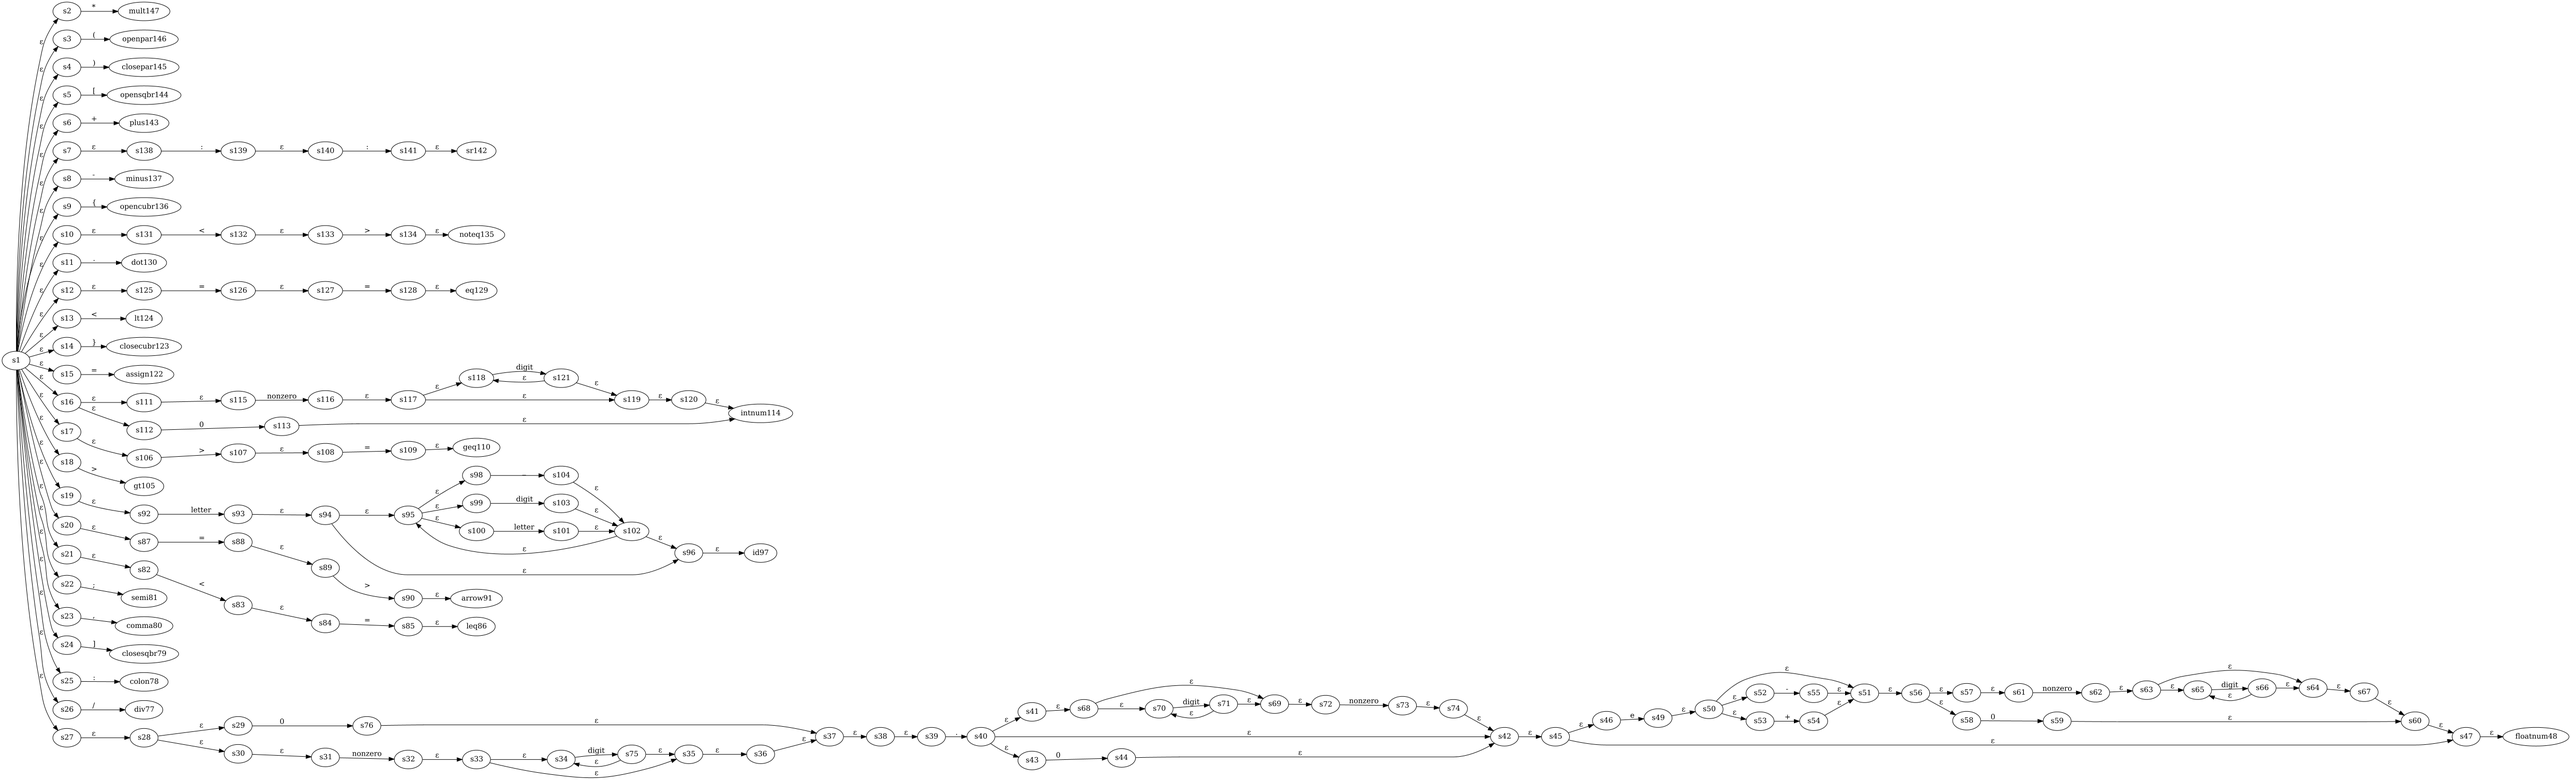
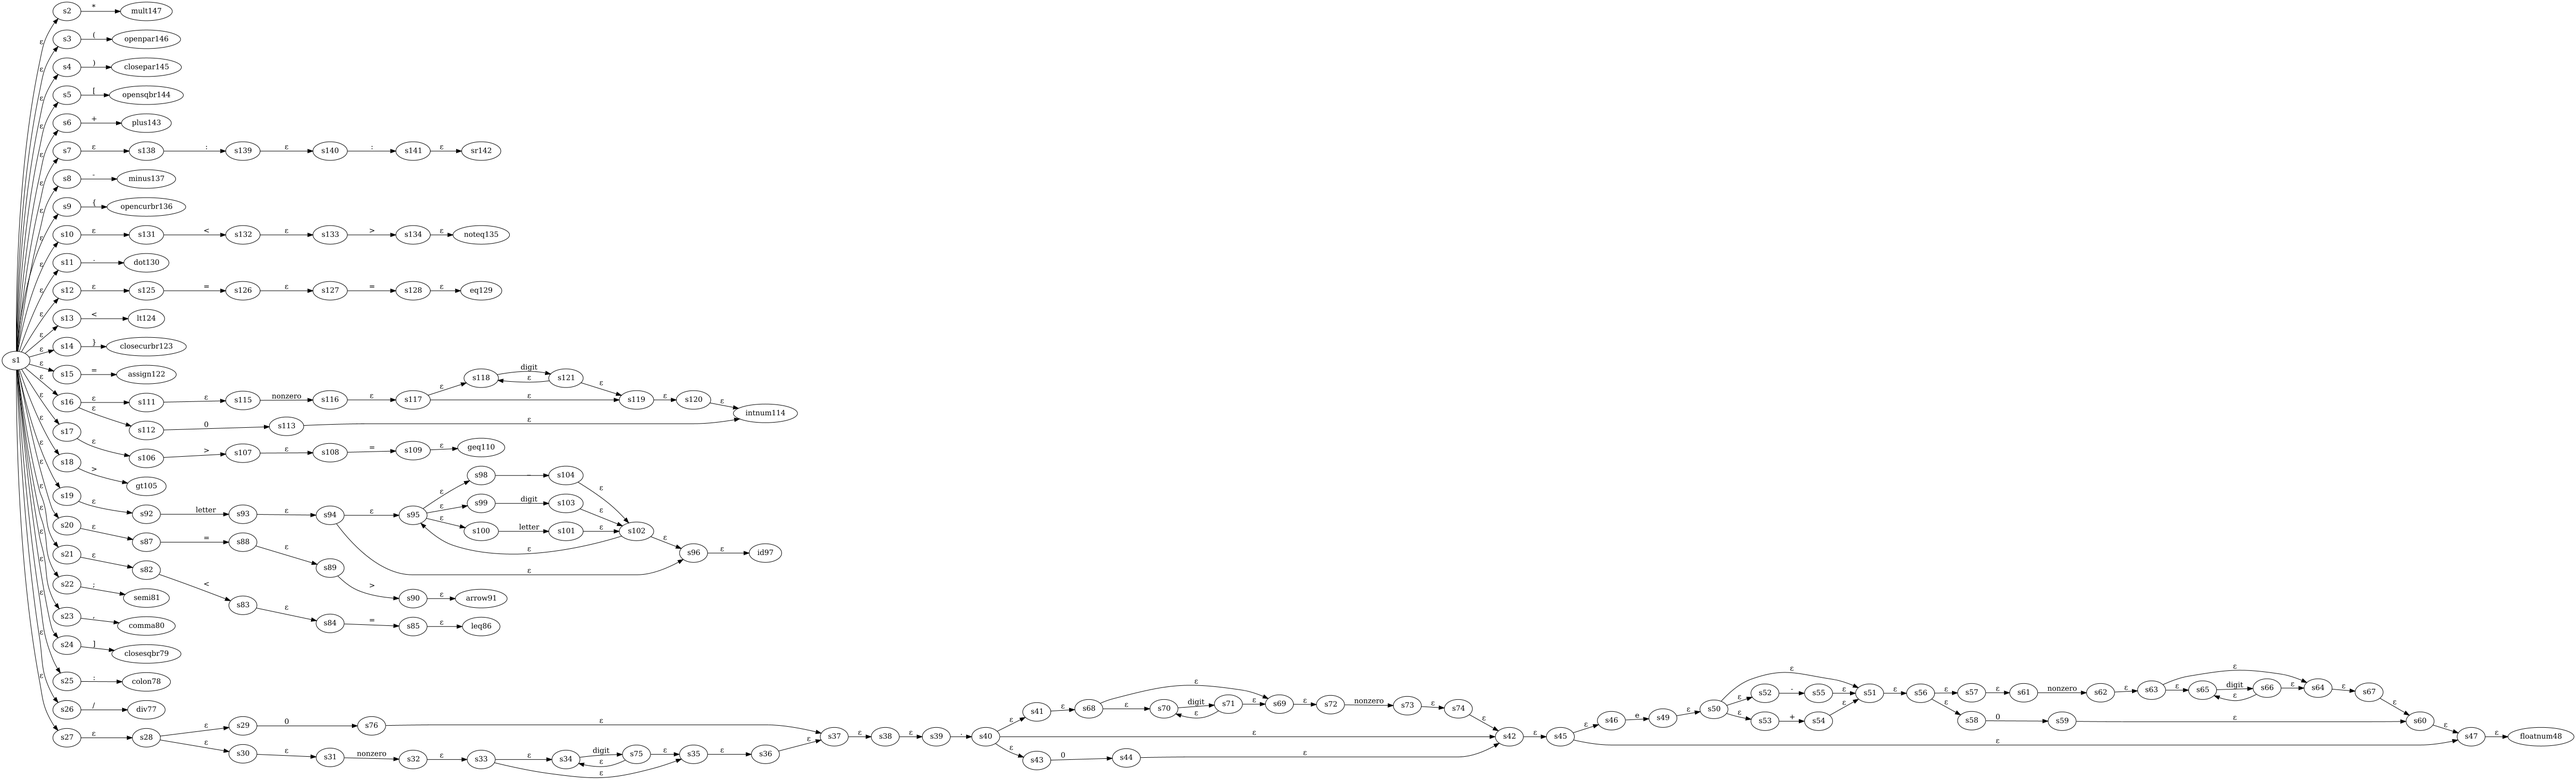
Working on the open close stuff for the prof's LL1 grammar

diff --git a/src/lexical_analysis/Token.java b/src/lexical_analysis/Token.java
@@ -24,8 +24,8 @@ public enum Token {
     ASSIGN("assign", "=", true, true, false),
     OPEN_PAR("openpar", "(", true, true, false),
     CLOSE_PAR("closepar", ")", true, true, false),
-    OPEN_CUBR("opencubr", "{", true, true, false),
-    CLOSE_CUBR("closecubr", "}", true, true, false),
+    OPEN_CUBR("opencurbr", "{", true, true, false),
+    CLOSE_CUBR("closecurbr", "}", true, true, false),
     OPEN_SQBR("opensqbr", "[", true, true, false),
     CLOSE_SQBR("closesqbr", "]", true, true, false),
     SEMI_COLON("semi", ";", true, true, false),
